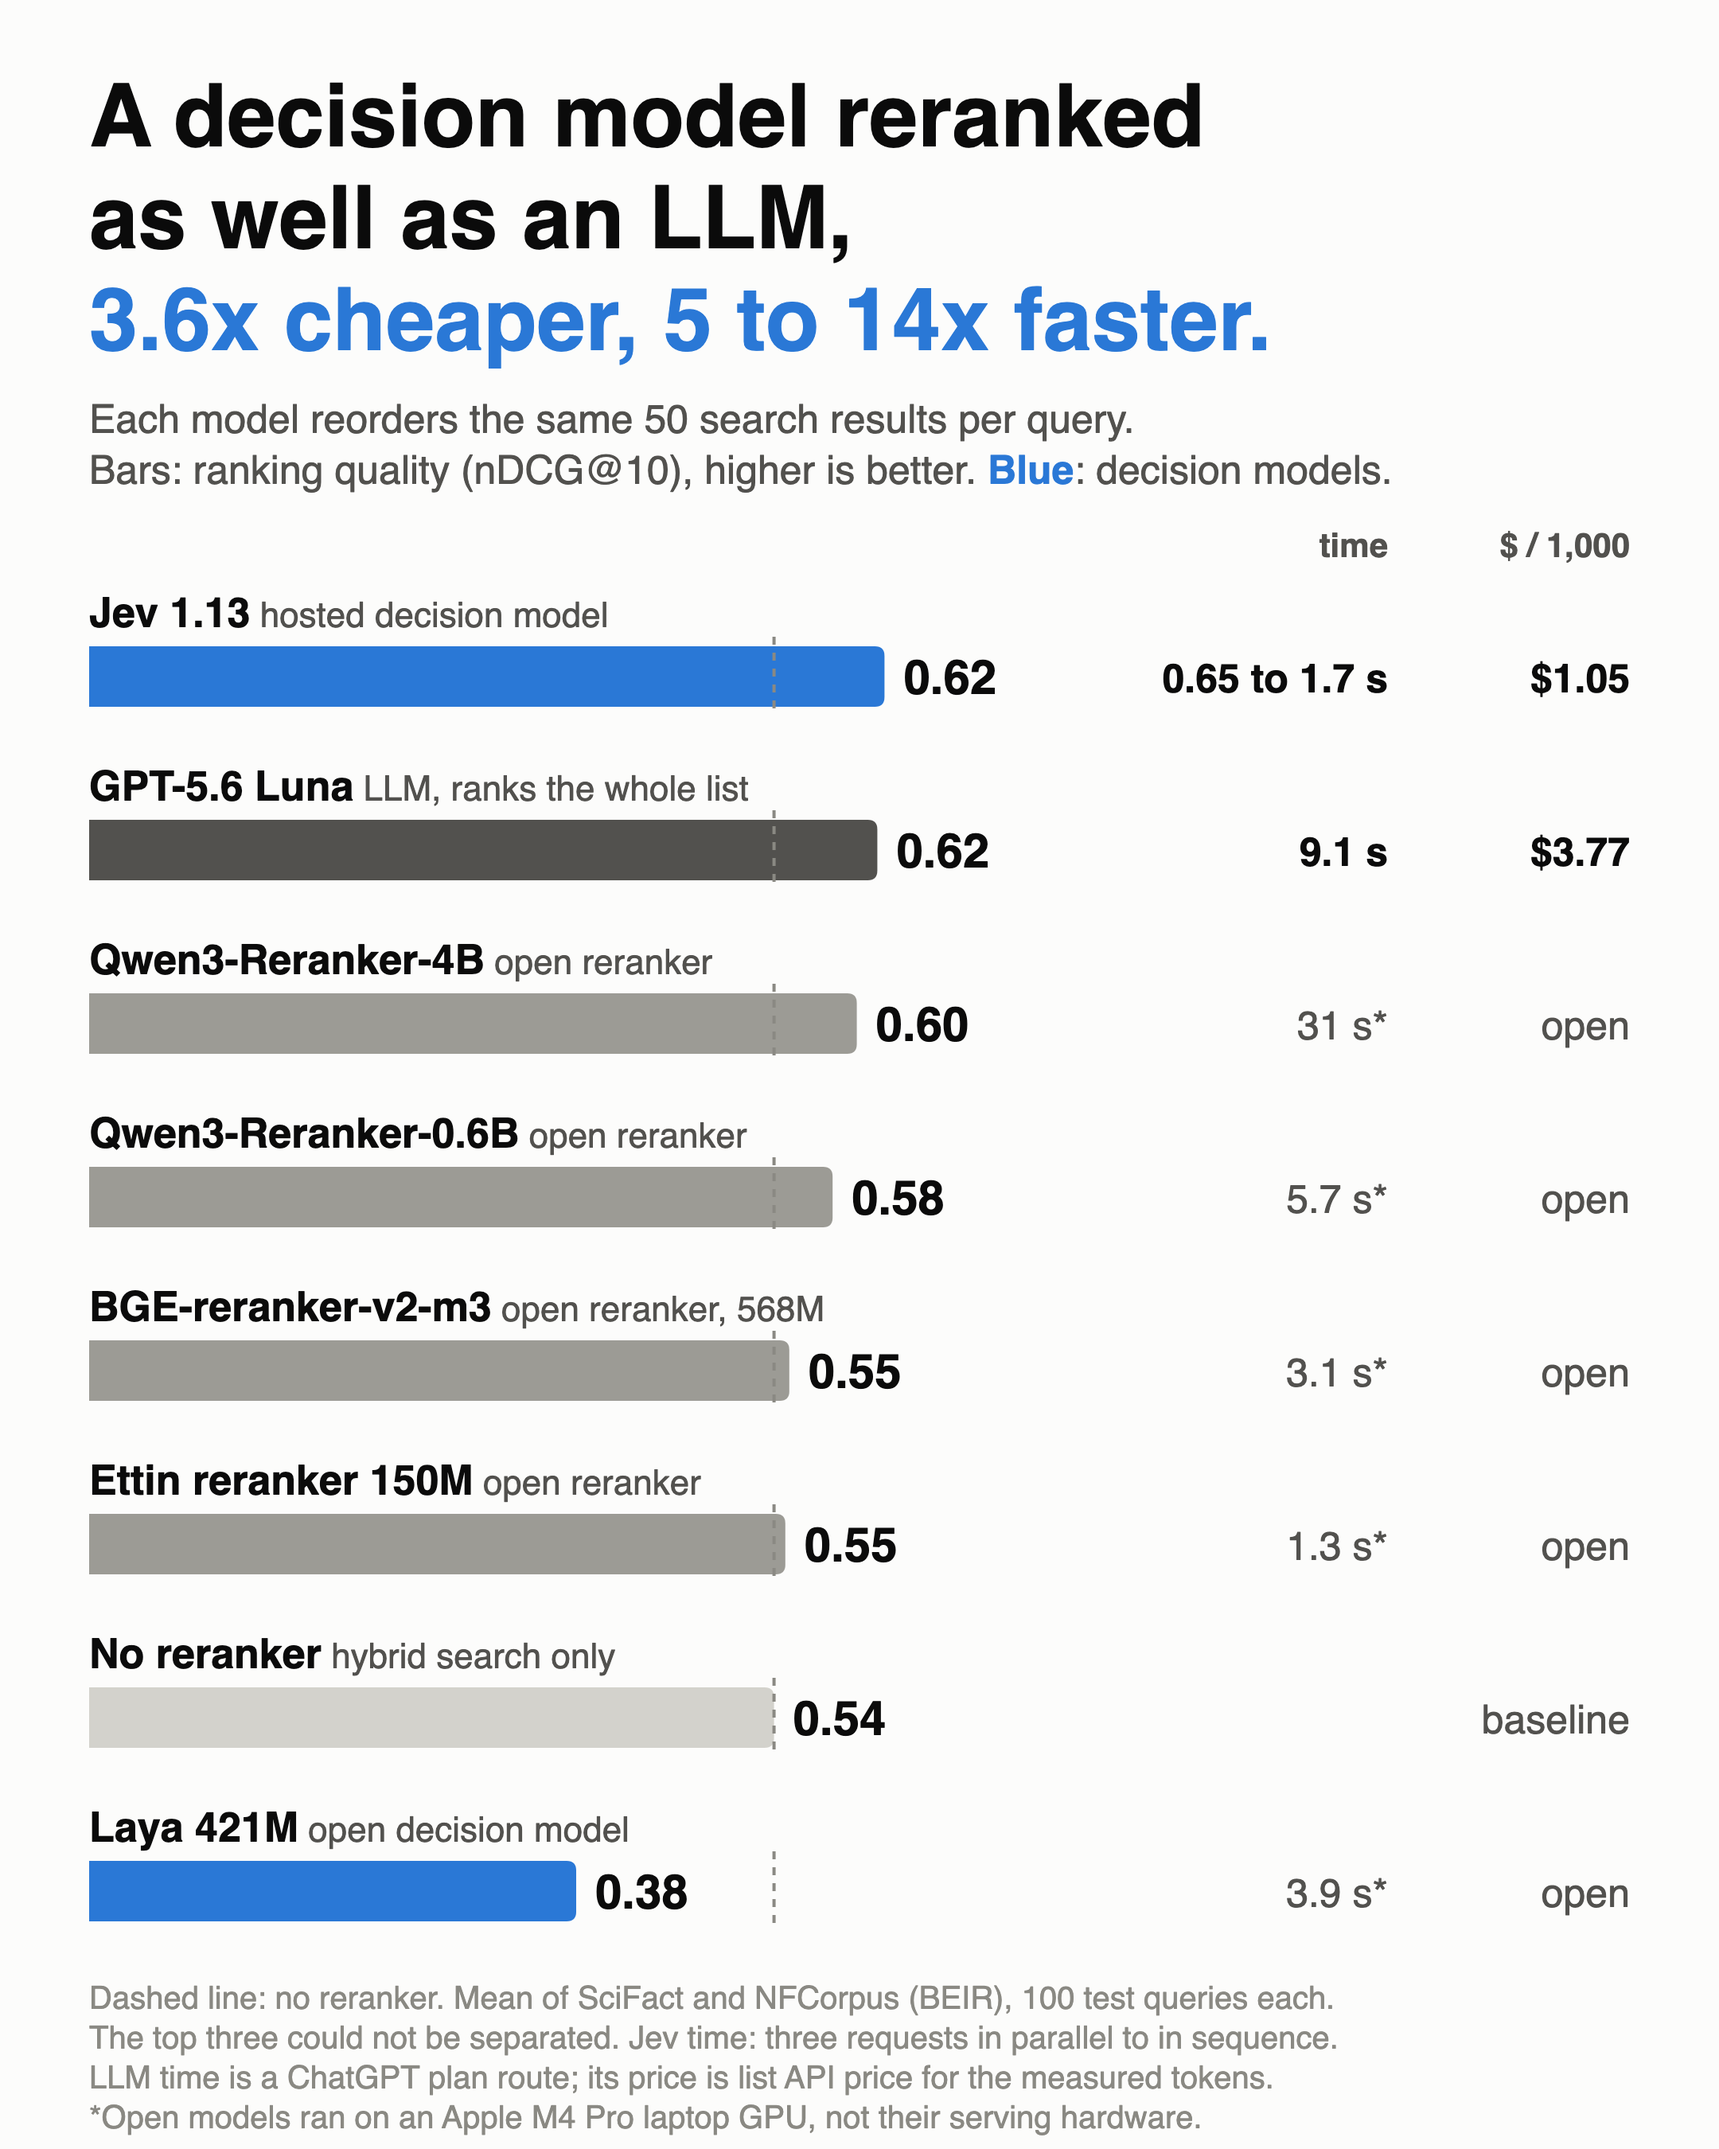
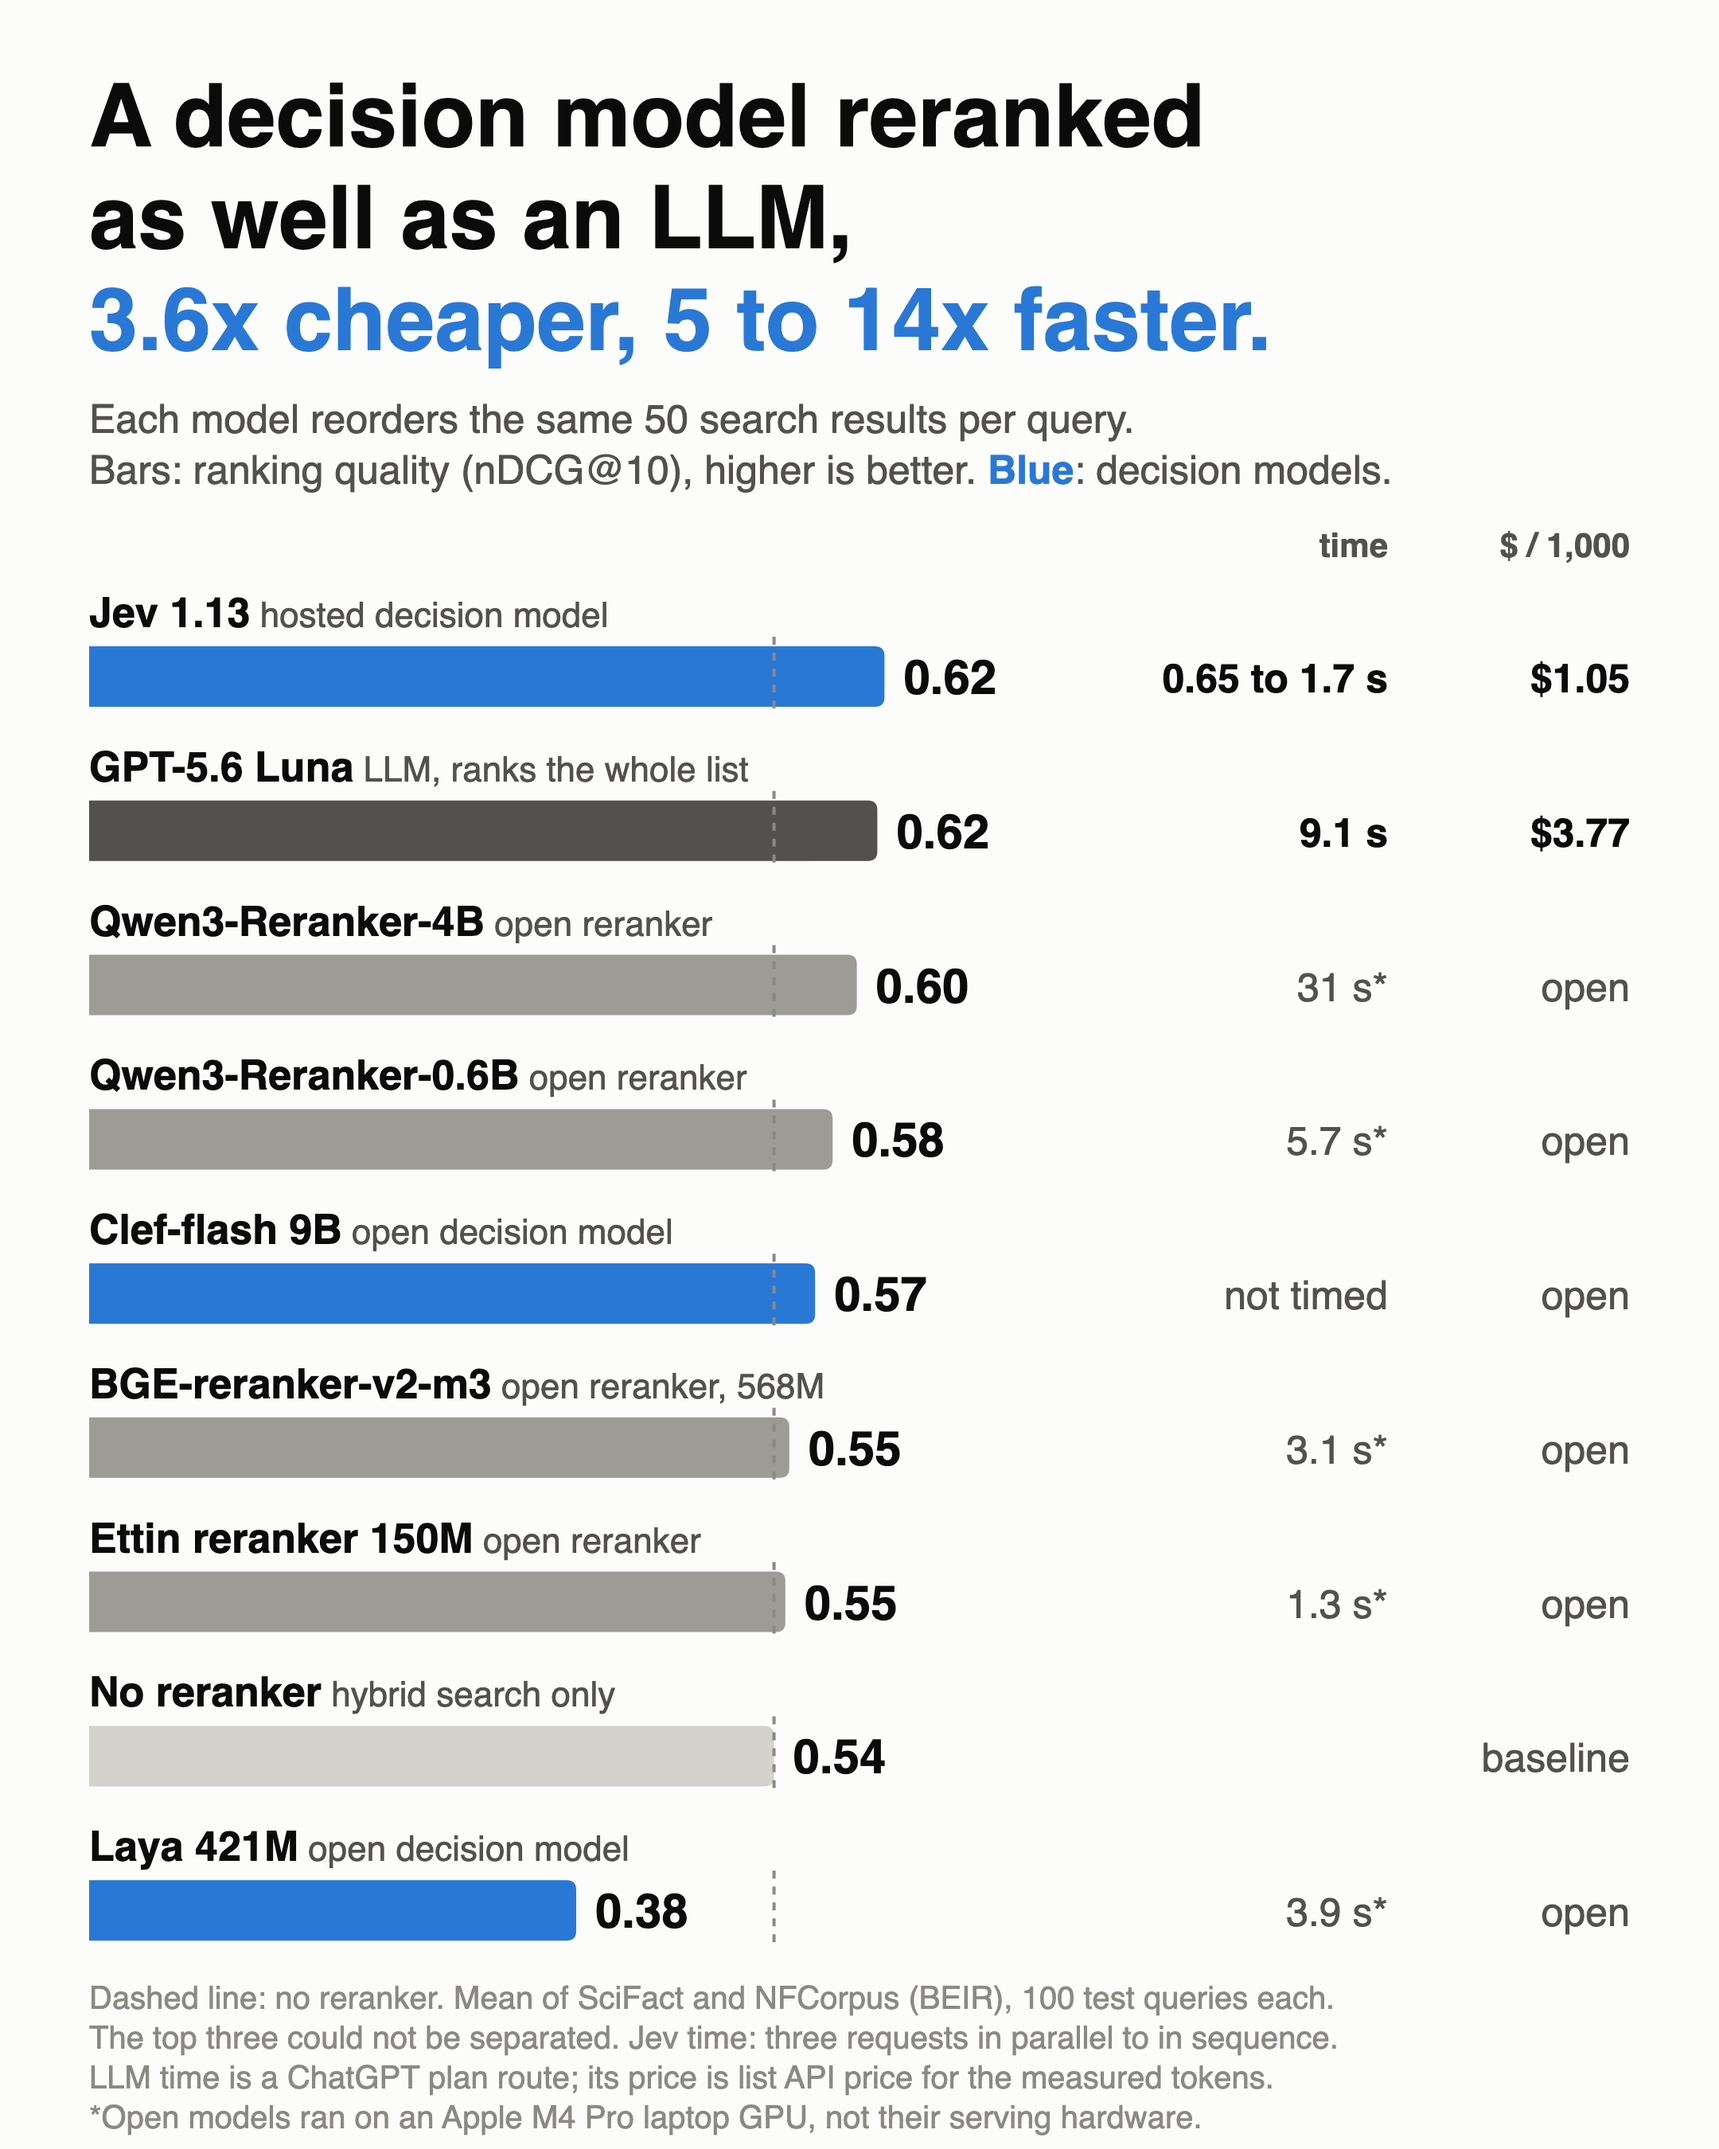
Add Clef-flash on both datasets

diff --git a/README.md b/README.md
@@ -11,7 +11,7 @@ Measured 2026-10-05. This is a ranking benchmark; no answers were generated or g
 - **A hosted decision model matched the LLM.** Jev 1.13 scored 0.824 on SciFact and 0.425 on NFCorpus; GPT-5.6 Luna scored 0.815 and 0.423. The difference is within noise on both. Jev cost $1.05 per 1,000 queries against $3.77 at list price. It answered in 1.7 s with its three requests in sequence and 0.65 s with them in parallel, against 9.1 s for Luna on a ChatGPT plan route.
 - **The largest open reranker tested was within noise of both.** Qwen3-Reranker-4B scored 0.790 and 0.415 with freely available weights. It took about 30 s per query on a laptop GPU, so its real cost is the GPU it is served on.
 - **Smaller rerankers did not beat hybrid search.** Qwen3-Reranker-0.6B improved on no reranker on both datasets, narrowly on SciFact. BGE-reranker-v2-m3, Ettin 150M and MiniLM-L6 could not be told apart from no reranker, and BGE-reranker-base was worse on NFCorpus. The two older ones still rank above BM25 alone on most of the full-set comparisons; a hybrid first stage leaves them little to fix.
-- **"Decision model" is not one quality level.** Laya, an open 421M decision model, ranked far below no reranker under all nine wordings tried. Clef-flash, an open 9.4B decision model given the same requests as Jev, scored 0.753 on SciFact with no failed queries: far above Laya, below Jev (-0.071, interval -0.116 to -0.031) and not clearly above no reranker (+0.051, interval -0.011 to +0.115). Its NFCorpus run was still in progress when this was written, so it is not yet in the tables or figures.
+- **"Decision model" is not one quality level.** Laya, an open 421M decision model, ranked far below no reranker under all nine wordings tried. Clef-flash, an open 9.4B decision model given the same requests as Jev, scored 0.753 and 0.387: far above Laya, below Jev on both datasets, and not clearly above no reranker on either.
 
 ## Results
 
@@ -23,6 +23,7 @@ nDCG@10 on 100 test queries per dataset. Mean is the unweighted mean of the two 
 | GPT-5.6 Luna | LLM, ranks the whole list | 0.815 | 0.423 | 0.619 | 9.1 s | $3.77 at list price |
 | Qwen3-Reranker-4B | open reranker | 0.790 | 0.415 | 0.603 | 31 s * | open weights |
 | Qwen3-Reranker-0.6B | open reranker | 0.761 | 0.407 | 0.584 | 5.7 s * | open weights |
+| Clef-flash 9B | open decision model | 0.753 | 0.387 | 0.570 | not reported | open weights |
 | BGE-reranker-v2-m3 | open reranker, 568M | 0.720 | 0.380 | 0.550 | 3.1 s * | open weights |
 | Ettin reranker 150M | open reranker | 0.723 | 0.370 | 0.547 | 1.3 s * | open weights |
 | No reranker | hybrid search only | 0.702 | 0.373 | 0.538 |  |  |
@@ -44,6 +45,7 @@ Difference in nDCG@10 on the same queries, with a 95% interval from a paired boo
 | GPT-5.6 Luna minus no reranker | **+0.113 [+0.053, +0.175]** | **+0.050 [+0.016, +0.085]** |
 | Qwen3-Reranker-4B minus no reranker | **+0.088 [+0.031, +0.147]** | **+0.042 [+0.015, +0.069]** |
 | Qwen3-Reranker-0.6B minus no reranker | **+0.059 [+0.003, +0.116]** | **+0.033 [+0.010, +0.057]** |
+| Clef-flash 9B minus no reranker | +0.051 [-0.011, +0.115] | +0.014 [-0.017, +0.046] |
 | BGE-reranker-v2-m3 minus no reranker | +0.017 [-0.022, +0.056] | +0.007 [-0.022, +0.034] |
 | Ettin reranker 150M minus no reranker | +0.021 [-0.033, +0.075] | -0.003 [-0.036, +0.029] |
 | MiniLM-L6 minus no reranker | -0.021 [-0.072, +0.028] | -0.013 [-0.039, +0.012] |
@@ -54,6 +56,9 @@ Difference in nDCG@10 on the same queries, with a 95% interval from a paired boo
 | GPT-5.6 Luna minus Qwen3-Reranker-4B | +0.024 [-0.018, +0.069] | +0.008 [-0.016, +0.031] |
 | Jev 1.13 minus Qwen3-Reranker-0.6B | **+0.063 [+0.023, +0.107]** | +0.019 [-0.005, +0.042] |
 | Qwen3-Reranker-4B minus Qwen3-Reranker-0.6B | +0.029 [-0.003, +0.064] | +0.009 [-0.008, +0.026] |
+| Jev 1.13 minus Clef-flash 9B | **+0.071 [+0.031, +0.116]** | **+0.038 [+0.017, +0.058]** |
+| Clef-flash 9B minus Qwen3-Reranker-4B | -0.038 [-0.083, +0.009] | **-0.028 [-0.051, -0.004]** |
+| Clef-flash 9B minus Laya 421M | **+0.281 [+0.200, +0.361]** | **+0.095 [+0.058, +0.134]** |
 
 With 100 queries per dataset, differences under about 0.03 on NFCorpus and under 0.04 to 0.06 on SciFact cannot be told from noise. Jev, Luna and Qwen3-Reranker-4B could not be separated from each other, and neither could the two Qwen3 rerankers.
 
@@ -157,7 +162,7 @@ The best wordings are a statistical tie: three levels minus four levels is +0.00
 - **Jev.** 200 of 200 queries completed, and 40 of 40 in the timing check.
 - **Laya.** 24% of its inputs were cut at 512 tokens with the four-level rubric and 13% with yes/no.
 - **Open rerankers.** No failures. At most 3 of 5,000 passages per run were longer than 2,048 tokens on their own and were cut.
-- **Clef-flash.** 100 of 100 SciFact queries completed; NFCorpus was still running when this was written.
+- **Clef-flash.** 200 of 200 queries completed. No request reached its 16,384-token input limit.
 - **Registration text that was superseded.** Registrations are published as written. Four of their fields are out of date and the text above is the correct account: the limit "one wording per arm, written before any arm ran; no prompt search" predates the Laya sweep; the Jev registration mentions eight parallel requests, but the scored run sent its three requests in sequence; the `primary` fields name MiniLM-L6 as the comparison, while this report compares against no reranker; and the Luna registration's `method` text also describes the unrun yes/no arms.
 
 ## Related public benchmarks
